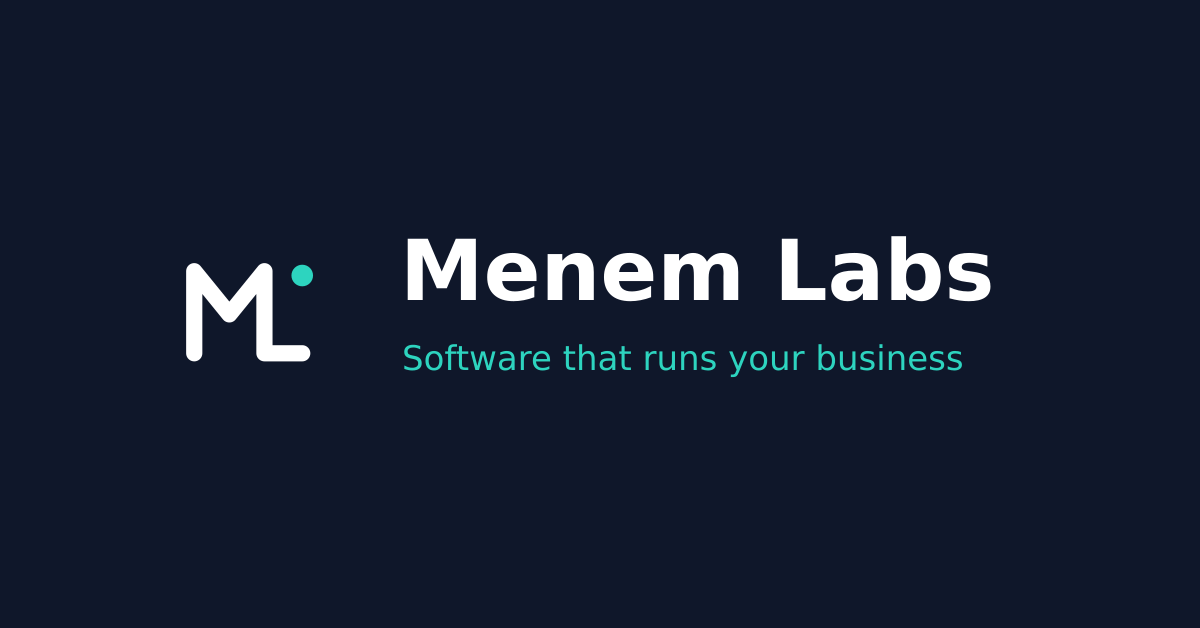
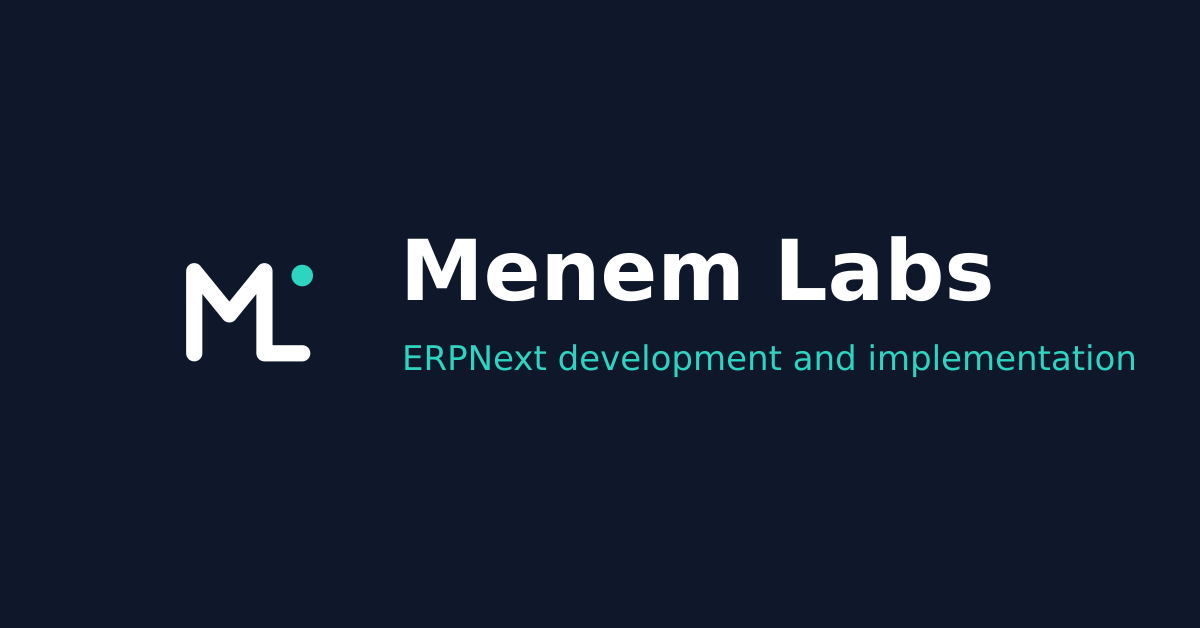
Lead the title and share images with ERPNext, tidy footer and dark card
- Page title is now 'ERPNext development and implementation' in each
  language, matching the main expertise.
- Each language has its own share image; Arabic links no longer preview
  with English text.
- The footer's link column is titled Pages / الصفحات instead of repeating
  the company name.
- The cooperative project's icon card is dark in dark mode instead of a
  bright white block.

Changed region(s): [[0.3392, 0.5446, 0.9558, 0.6051]]

diff --git a/src/i18n/ar.ts b/src/i18n/ar.ts
@@ -4,7 +4,7 @@ const ar: typeof en = {
   languageName: 'العربية',
 
   metadata: {
-    title: 'Menem Labs — برمجيات تُدير أعمالك',
+    title: 'Menem Labs — تطوير وتطبيق ERPNext',
     description:
       'تطوّر Menem Labs نظام ERPNext وتطبّقه — بخبرة تزيد على ست سنوات في الرعاية الصحية والإنشاءات والعقارات — إلى جانب أنظمة الأعمال المخصّصة ومنصّات الويب وتطبيقات الجوال.',
   },
@@ -86,7 +86,7 @@ const ar: typeof en = {
 
   footer: {
     contactTitle: 'تواصل معنا',
-    pagesTitle: 'Menem Labs',
+    pagesTitle: 'الصفحات',
     rights: 'جميع الحقوق محفوظة.',
   },
 

diff --git a/src/i18n/en.ts b/src/i18n/en.ts
@@ -2,7 +2,7 @@ export default {
   languageName: 'English',
 
   metadata: {
-    title: 'Menem Labs — Software that runs your business',
+    title: 'Menem Labs — ERPNext development and implementation',
     description:
       'Menem Labs builds and implements ERPNext — more than six years in healthcare, construction and real estate — along with custom business systems, web platforms and mobile apps.',
   },
@@ -106,7 +106,7 @@ export default {
 
   footer: {
     contactTitle: 'Contact',
-    pagesTitle: 'Menem Labs',
+    pagesTitle: 'Pages',
     rights: 'All rights reserved.',
   },
 
